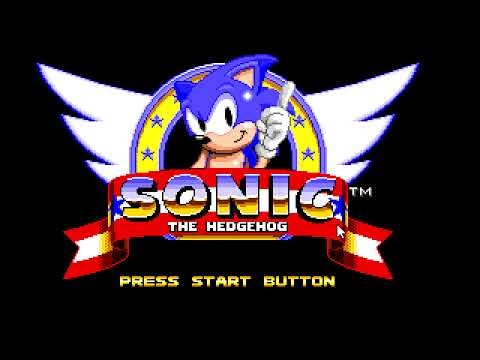
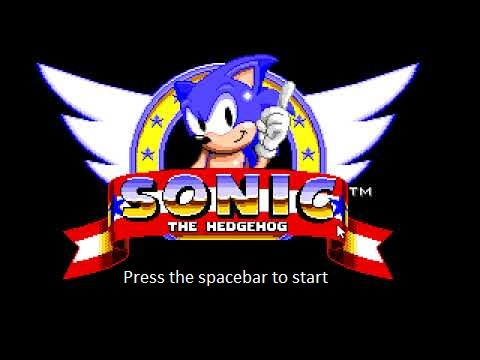
Game no ending screen

diff --git a/Jogo/ex1.html b/Jogo/ex1.html
@@ -6,12 +6,16 @@
         <script src="https://ajax.googleapis.com/ajax/libs/jquery/3.5.1/jquery.min.js"></script>
         <script>
         $().ready(function(){
+            var cancelaTelaInicial; //criei
+            var cancelaTela;
+            var gameOver = new Image();
+            gameOver = "./go.jpg";
             var flag = true;
             var canvas = document.getElementById("canvas");
             var audio = document.getElementById("au1");
             var audioo = document.getElementById("au2");
             var context = canvas.getContext("2d");
-            var context = canvas.getContext("2d");
+            //var context = canvas.getContext("2d");
             var idTeste;
             var music = document.getElementById("mus");
             var musiic = document.getElementById("musiic");
@@ -21,6 +25,15 @@
             var start = new Image();
             start.src = "./hqdefault.jpg";
             context.drawImage(start, 0, 0);
+            function teste(){//criei
+                context.drawImage(start, 0, 0, canvas.width, canvas.height);//criei
+                cancelaTelaInicial = requestAnimationFrame(teste);//criei
+            }//criei
+            cancelaTelaInicial = requestAnimationFrame(teste);//criei
+            function teste2(){//criei
+                context.drawImage(gameOver, 0, 0, canvas.width, canvas.height);//criei
+                cancelaTela = requestAnimationFrame(teste2);//criei
+            }//criei
             var img = new Image();
             img.src = "./sonic.png";
             var stuff = {
@@ -129,6 +142,8 @@
                         musiic.pause();
                         //music.play();
                         cancelAnimationFrame(idTeste);
+                        context.clearRect(0,0, canvas.width, canvas.height);
+                        cancelaTela = requestAnimationFrame(teste2);//criei
                     }
                 }
             }
@@ -139,10 +154,13 @@
                         musiic.pause();
                         //music.play();
                         cancelAnimationFrame(idTeste);
+                        context.clearRect(0,0, canvas.width, canvas.height);
+                        cancelaTela = requestAnimationFrame(teste2);//criei
+
                     }
                 }
             }   
-            context.font = "30px"
+            context.font = "30px arial"
             context.drawImage(img, stuff.sonicx, stuff.sonicy, stuff.sonich, stuff.sonicw, stuff.x, stuff.y, stuff.w, stuff.h);
             function animate(){
                 
@@ -214,15 +232,16 @@
                         stuff.sonicw = stuff.SonicDefault[screen % 6].sonicw;
                     }
                 }
+                context.drawImage(start, 0, 0);
                 $(document).keydown(function(event){
                 if(event.which == 32 && flag){
                     flag = false;
-
                     setInterval(addEnemiesUp,1000);
-            setInterval(addEnemiesDown,1000);
-           animation = animate();
-           musi.pause();
-           musiic.play();
+                    setInterval(addEnemiesDown,1000);
+                    animation = animate();
+                    musi.pause();
+                    musiic.play();
+                    cancelAnimationFrame(cancelaTelaInicial);//criei
                 }
             });
             $(document).keydown(function(event){
@@ -241,7 +260,9 @@
             });
             $(document).keyup(function(event){
                 stuff.SonicDefault();
-            });
+            }); 
+
+
         });</script>
 	</head>
 	<body>
